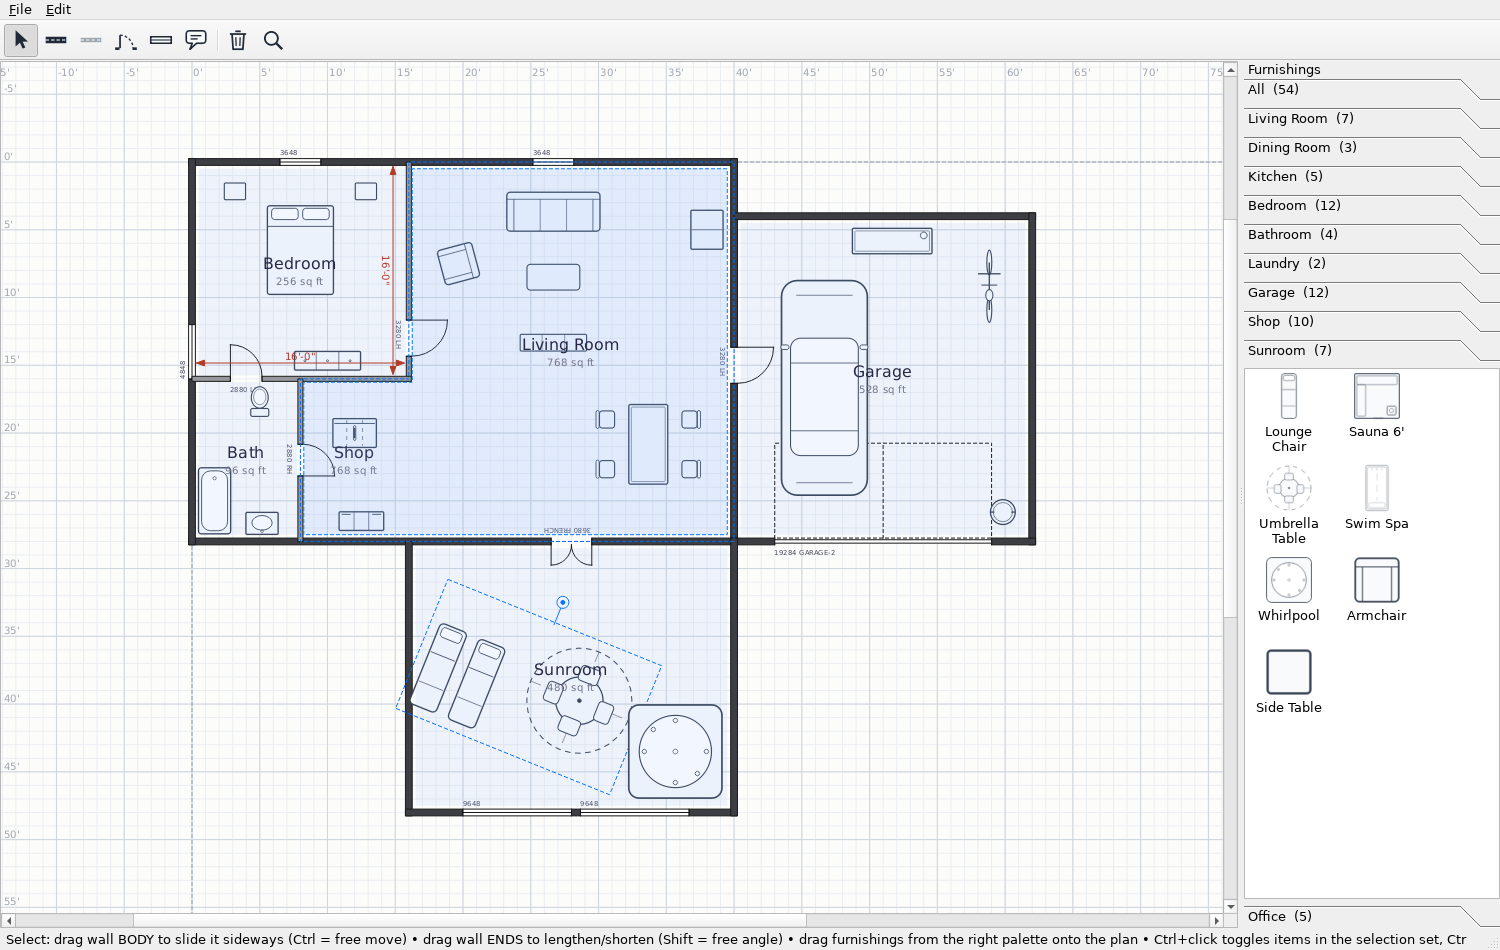
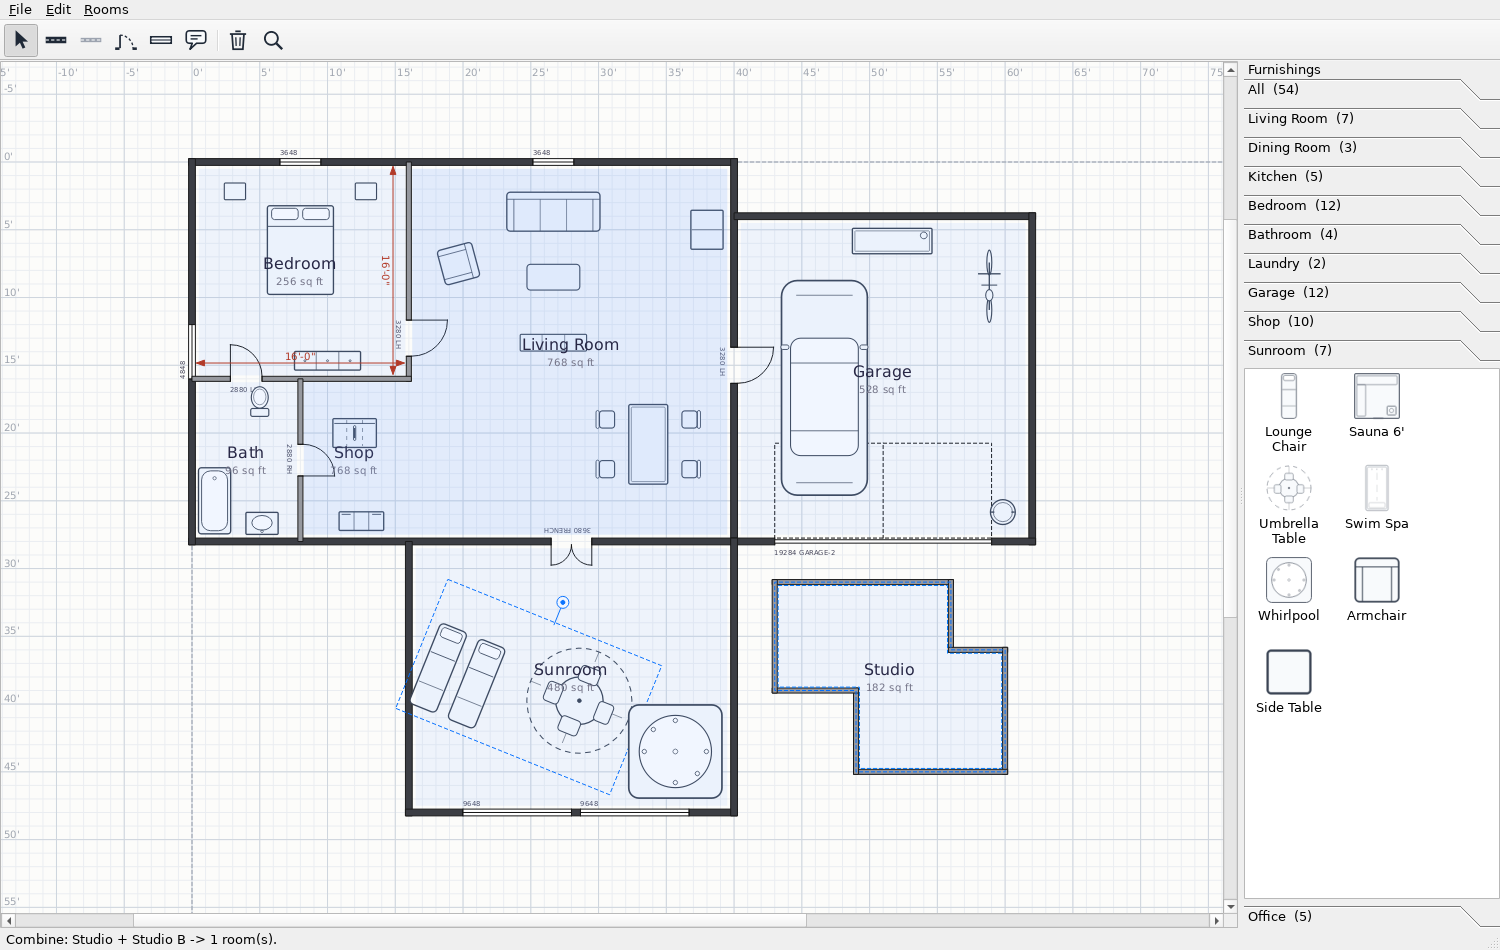
Show room operations in the README screenshot
Add an L-shaped "Studio" room built via Rooms > Combine of two
overlapping rectangles, so the screenshot shows a non-rectangular room
produced by a boolean operation.

Changed region(s): [[0.0, 0.9768, 0.9813, 1.0], [0.4907, 0.6105, 0.6747, 0.8242], [0.0613, 0.0, 0.092, 0.0305]]

diff --git a/docs/make_screenshot.py b/docs/make_screenshot.py
@@ -92,9 +92,27 @@ def room(name, anchor, rtype="", dims=False, sel=False):
 room("Bedroom", (96, 96), "Bedroom", dims=True)
 room("Bath", (48, 264), "Bathroom")
 room("Shop", (144, 264), "Shop")
-room("Living Room", (336, 168), "Living Room", sel=True)
+room("Living Room", (336, 168), "Living Room")
 room("Garage", (612, 192), "Garage")
 room("Sunroom", (336, 456), "Sunroom")
+
+
+# --- room operation: an L-shaped "Studio" from two overlapping rectangles
+# via Rooms ▸ Combine (its dashed outline shows the non-rectangular result)
+def _demo_rect(x, y, w, h, name):
+    cs = [QPointF(x, y), QPointF(x + w, y), QPointF(x + w, y + h),
+          QPointF(x, y + h)]
+    r = FP.RoomItem(name, QPointF(x + w / 2, y + h / 2),
+                    FP.room_path_from_corners(cs), FP.poly_area_sqft(cs),
+                    corners=cs)
+    sc.addItem(r)
+    return r
+
+
+_ra = _demo_rect(516, 372, 156, 96, "Studio")
+_rb = _demo_rect(588, 432, 132, 108, "Studio B")
+win._sel_order = [_ra, _rb]
+win.room_boolean("combine")
 
 # --- furnishings -------------------------------------------------------------
 F = [("bed_queen", (96, 78), 0), ("nightstand", (38, 26), 0),